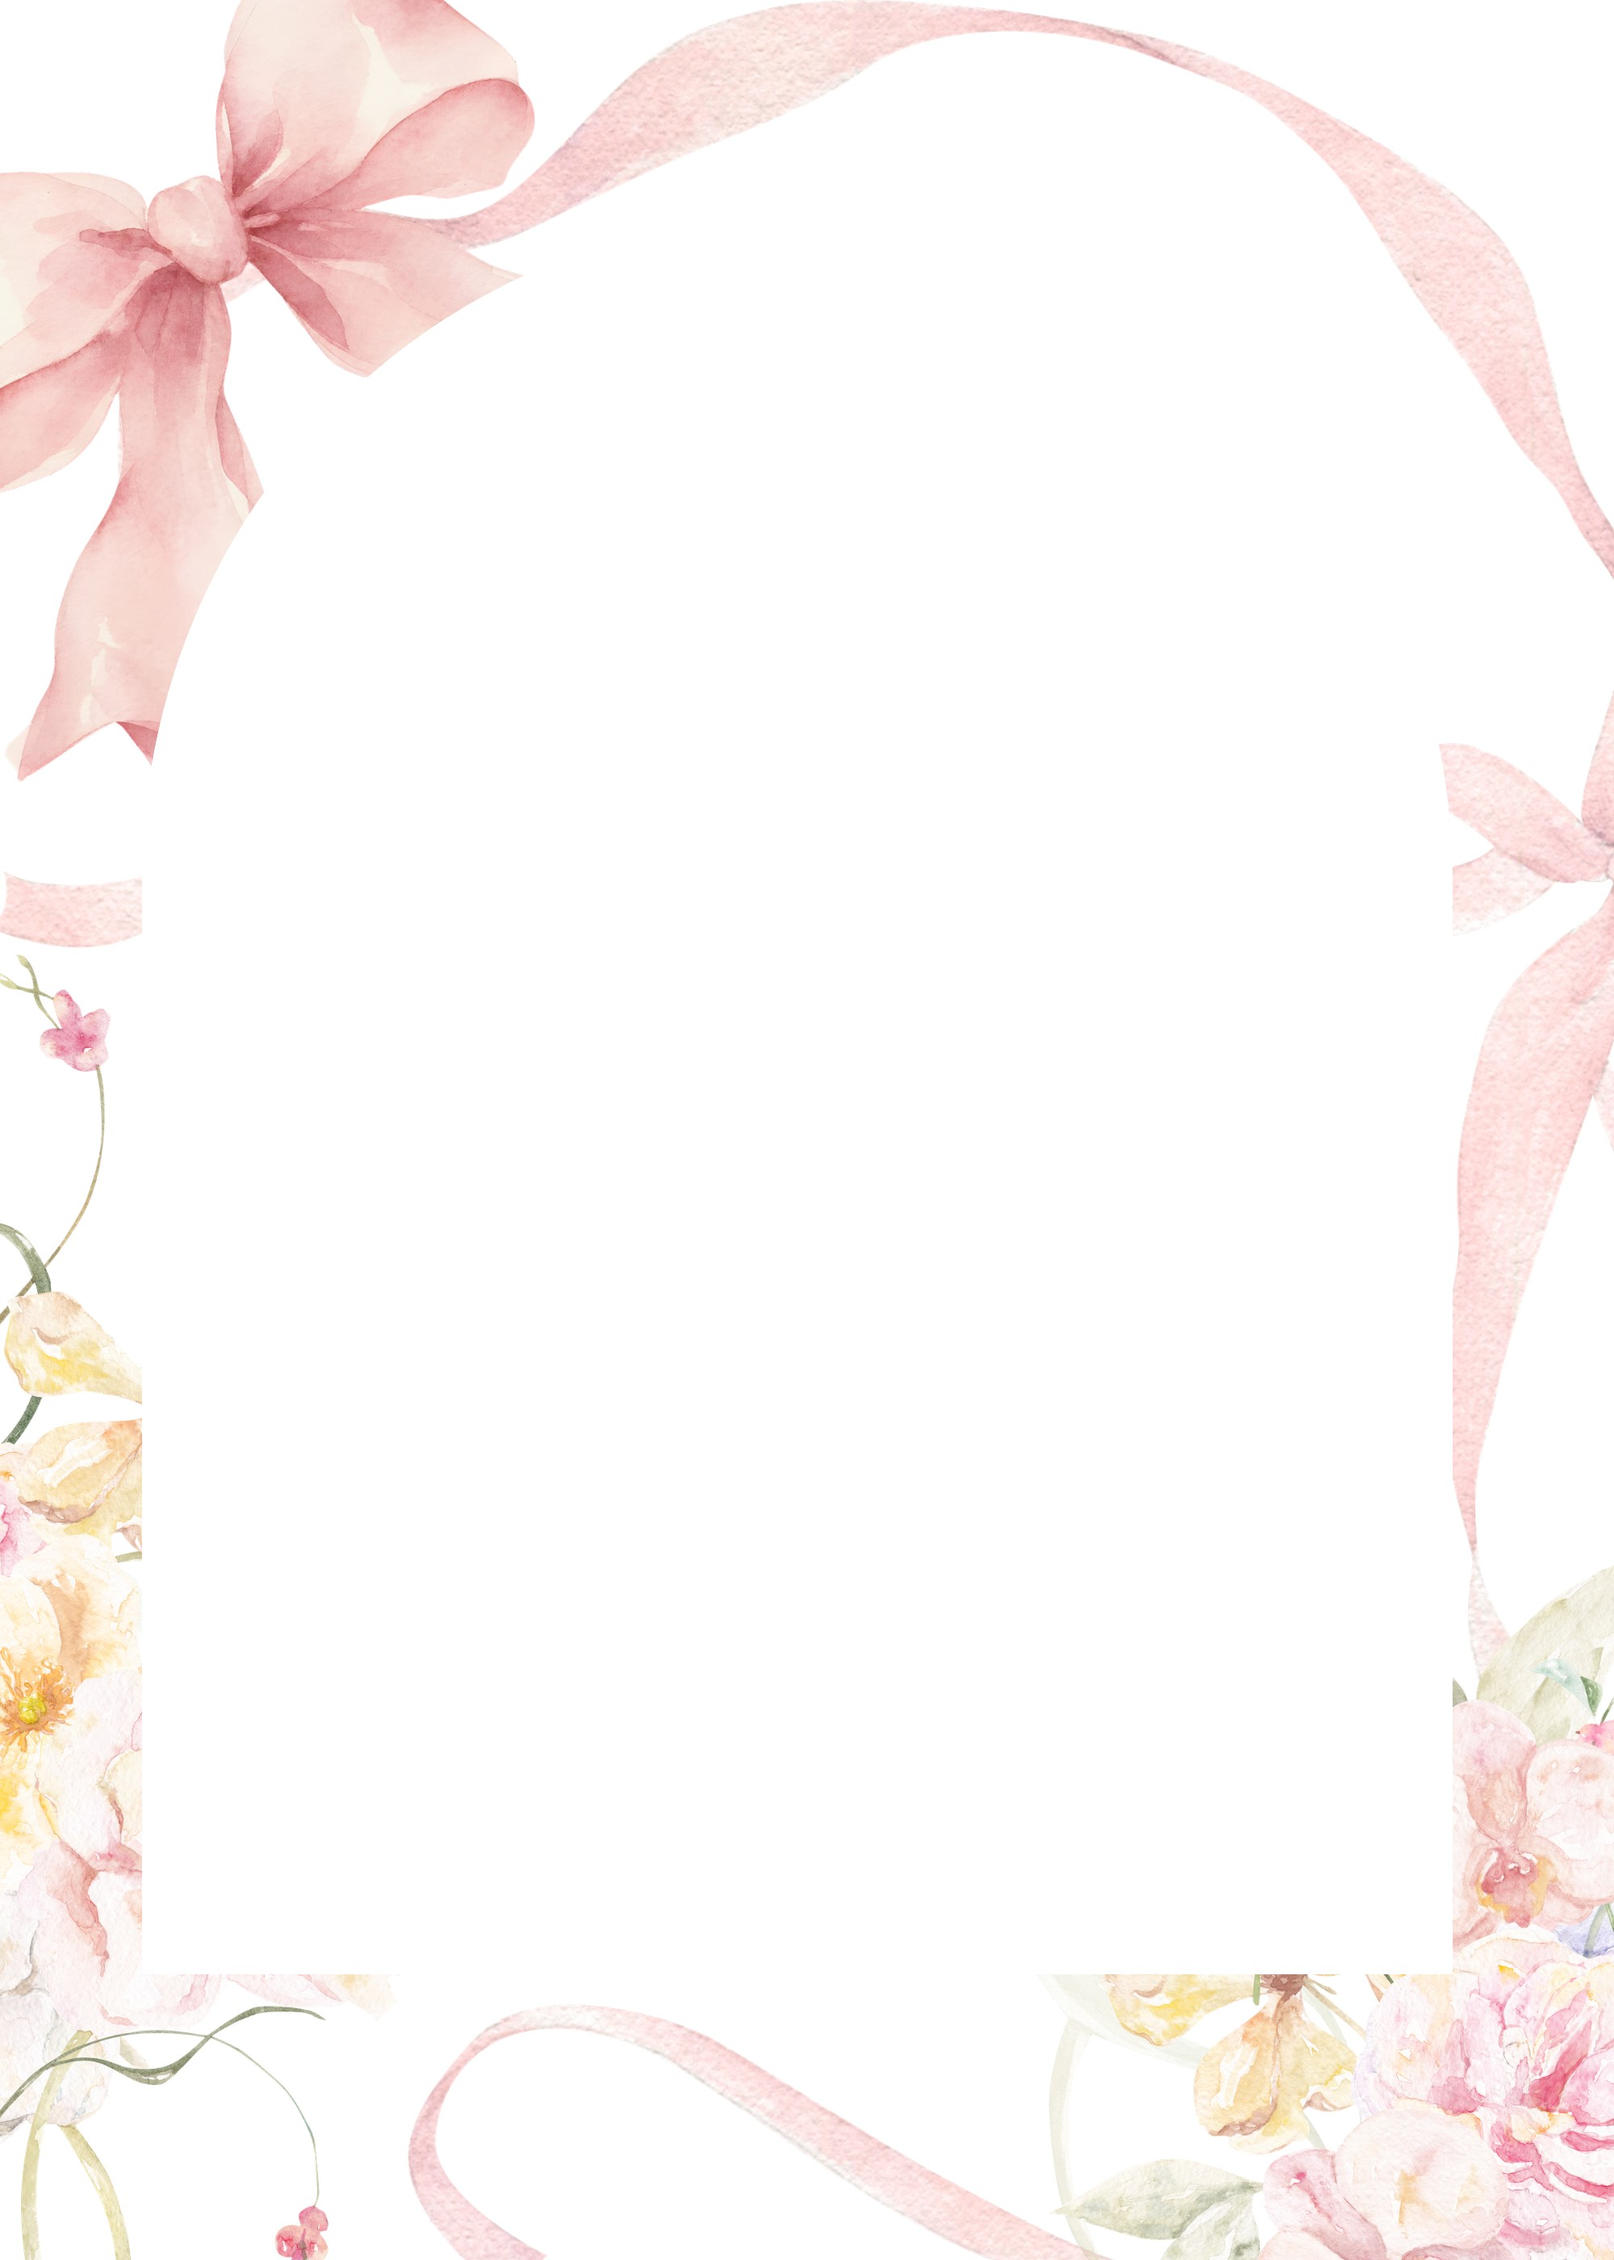
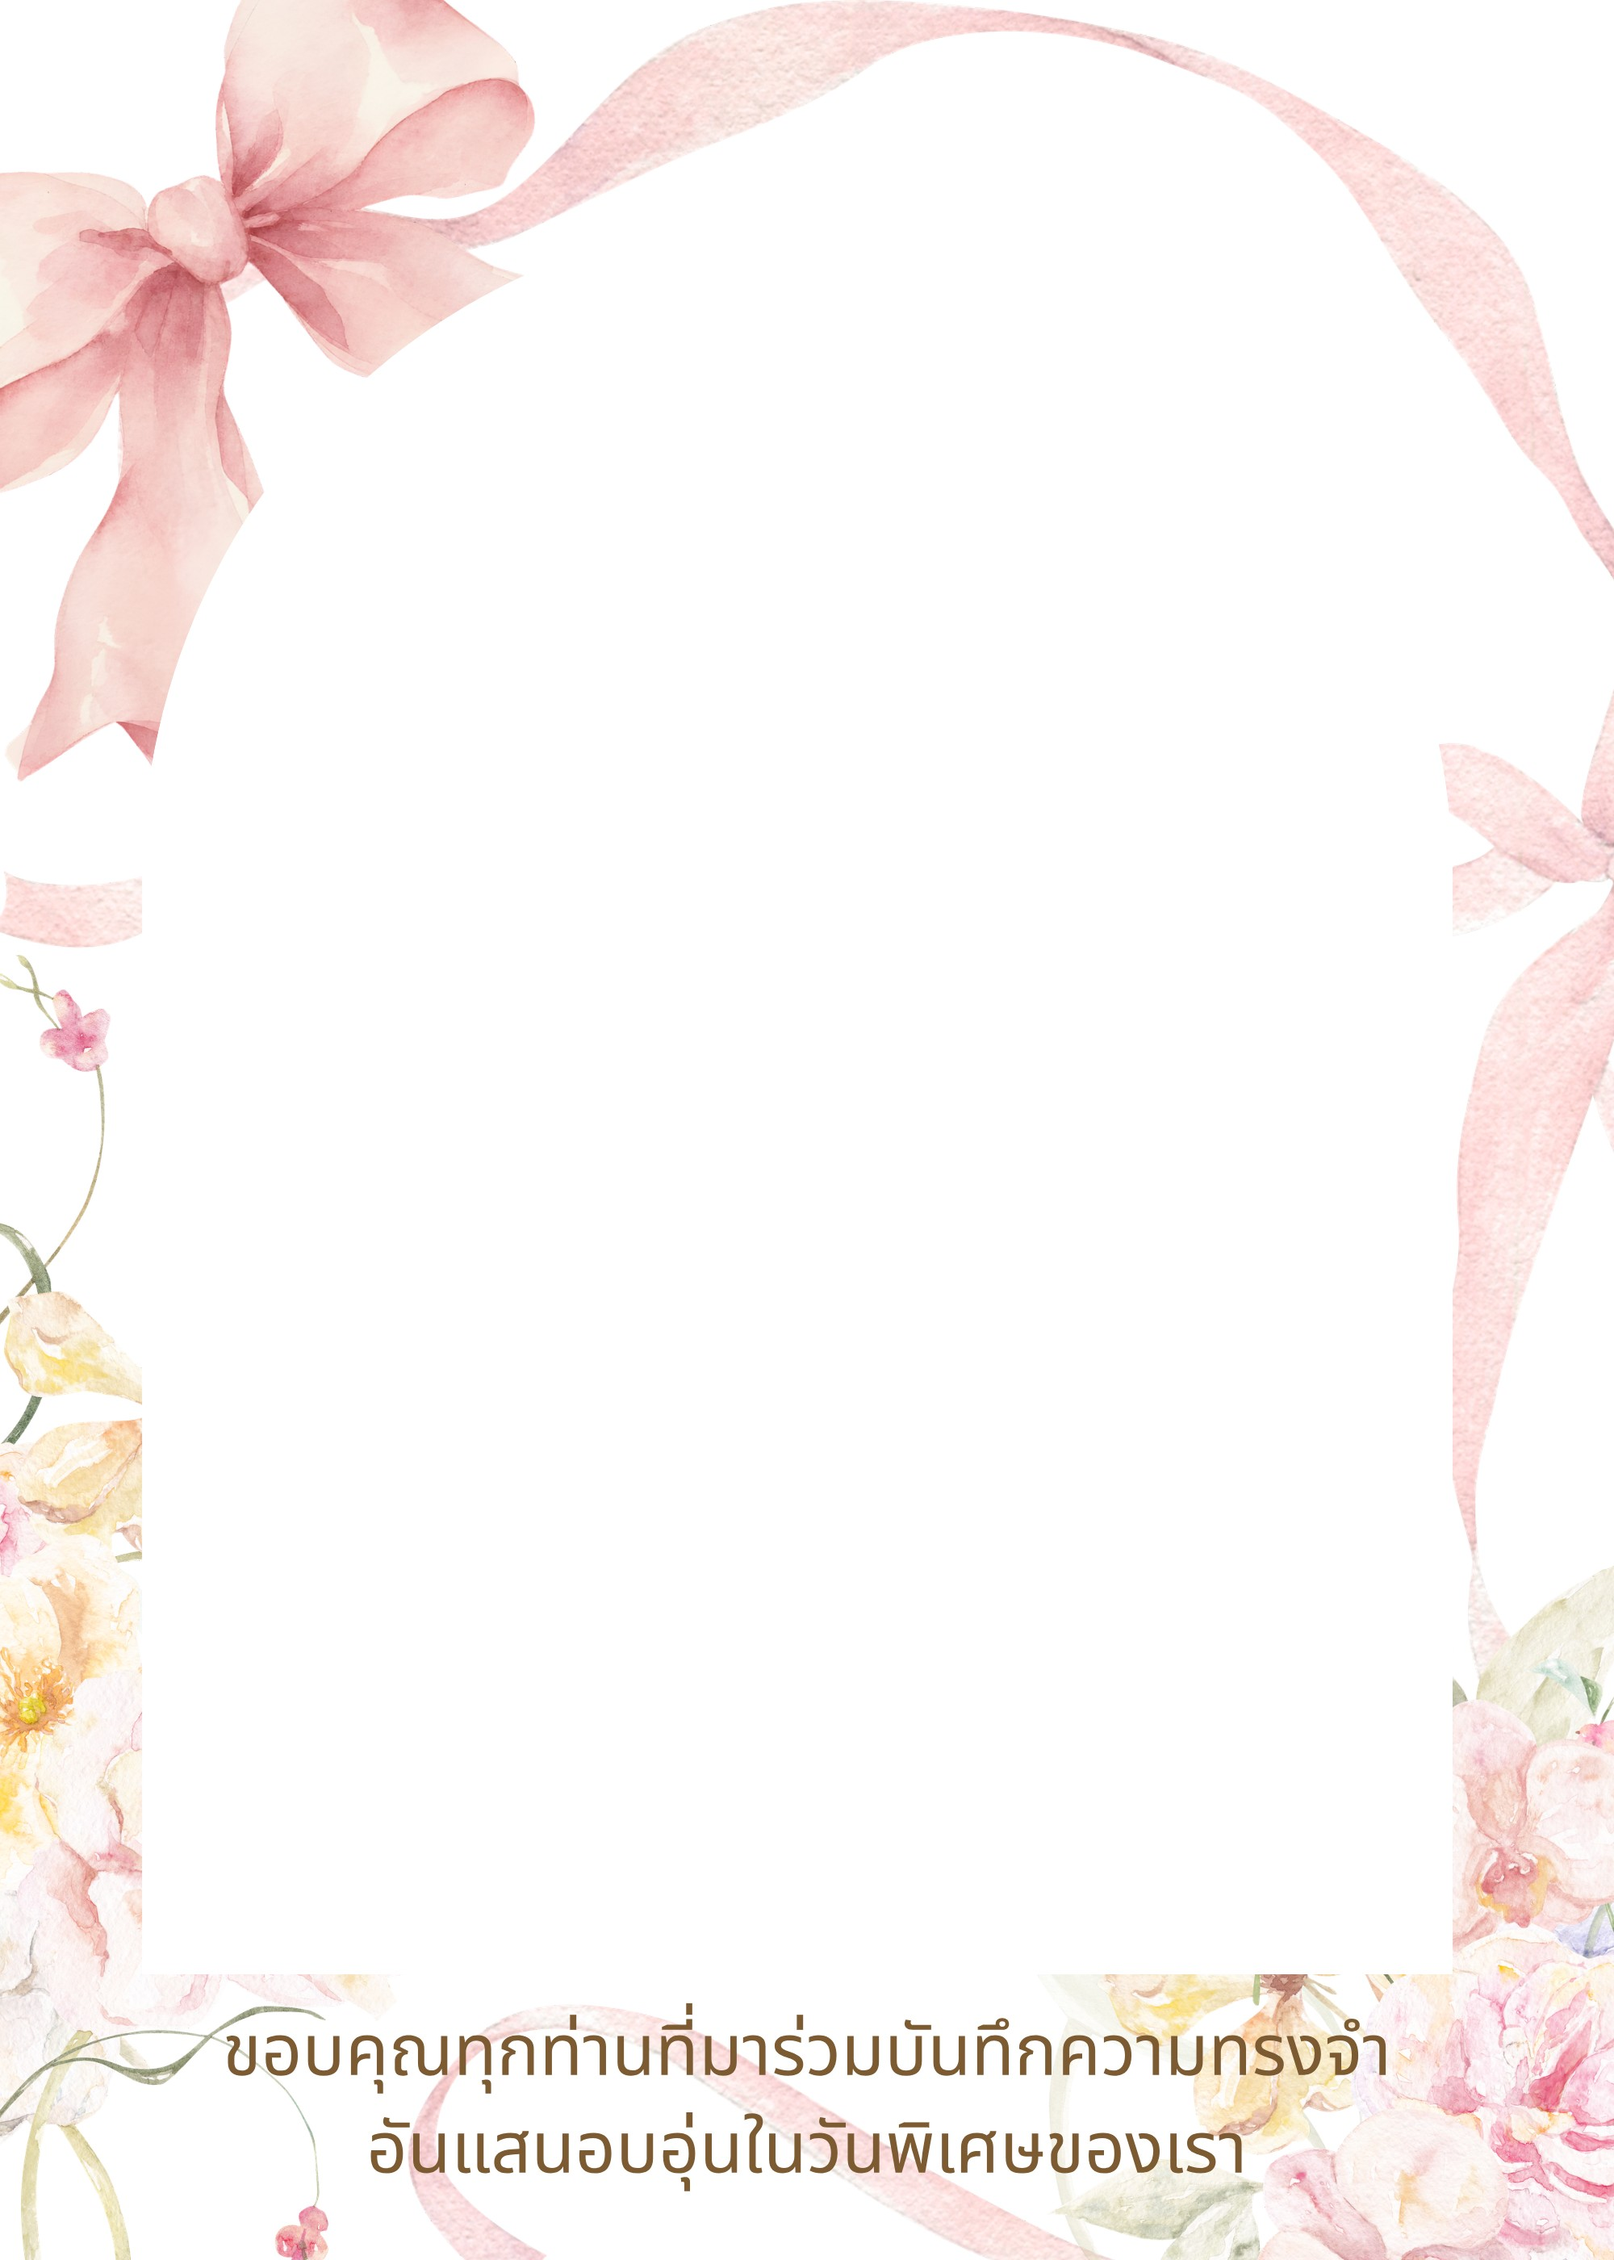
Signs: updated template with thank-you lines, bigger VIP, borderless shrink option

Changed region(s): [[0.124, 0.9011, 0.868, 0.9632]]

diff --git a/app/print/signs/page.tsx b/app/print/signs/page.tsx
@@ -1,6 +1,7 @@
 "use client";
 
 import { Mali } from "next/font/google";
+import { useEffect, useState } from "react";
 import { signFontPt, signLines } from "@/lib/layout";
 import { useStore } from "@/lib/store";
 
@@ -8,6 +9,7 @@ const mali = Mali({ subsets: ["thai", "latin"], weight: "700" });
 
 /** The 5×7 in design scaled to a quarter of A4 (148.5 mm tall); it is 1 mm wider than the cell, so the sides crop evenly. */
 const FACE_SCALE = 148.5 / 177.8;
+const SHRINK_KEY = "signPrintShrink";
 
 /** One face of a tent card on public/sign-template.jpg (template/template.svg without its text). */
 function Face({ num, label, flip }: { num: number | undefined; label: string; flip?: boolean }) {
@@ -33,6 +35,24 @@ function Face({ num, label, flip }: { num: number | undefined; label: string; fl
 /** Two tables per A4 sheet: each column is one tent card, cut along the vertical line and folded along the horizontal one. */
 export default function PrintSigns() {
   const { state, d, error } = useStore();
+  // borderless printing enlarges the page past the paper; shrinking around the centre keeps the art and the cut/fold lines in place
+  const [shrink, setShrink] = useState(0);
+  useEffect(() => {
+    try {
+      setShrink(Number(localStorage.getItem(SHRINK_KEY)) || 0);
+    } catch {
+      /* ignore */
+    }
+  }, []);
+  const chooseShrink = (n: number) => {
+    setShrink(n);
+    try {
+      localStorage.setItem(SHRINK_KEY, String(n));
+    } catch {
+      /* ignore */
+    }
+  };
+
   if (error) return <p className="p-6 text-danger">{error}</p>;
   if (!state || !d) return <p className="p-6 text-muted">กำลังโหลด…</p>;
 
@@ -47,14 +67,26 @@ export default function PrintSigns() {
           พิมพ์ {sheets.length} แผ่น
         </button>
         <span className="text-sm text-muted">{tables.length} โต๊ะ · A4 แนวตั้ง · ไม่มีขอบ · ตัดตามเส้นแนวตั้ง พับตามเส้นแนวนอน</span>
+        <label className="ml-auto flex shrink-0 items-center gap-2 text-sm">
+          ย่อชดเชยขอบ
+          <select className="min-h-9 rounded-lg border border-line bg-card px-2" value={shrink} onChange={(e) => chooseShrink(Number(e.target.value))}>
+            {[0, 1, 2, 3, 4, 5].map((n) => (
+              <option key={n} value={n}>
+                {n}%
+              </option>
+            ))}
+          </select>
+        </label>
       </div>
       <div className="flex flex-col items-center gap-6 bg-paper py-6 print:block print:gap-0 print:bg-white print:py-0">
         {sheets.map((pair) => (
-          <div key={pair[0].id} className={`sheet relative grid h-[297mm] w-[210mm] grid-cols-2 overflow-hidden bg-white shadow print:shadow-none ${mali.className}`} style={{ color: "#7c5a32" }}>
+          <div key={pair[0].id} className={`sheet relative h-[297mm] w-[210mm] overflow-hidden bg-white shadow print:shadow-none ${mali.className}`} style={{ color: "#7c5a32" }}>
+            <div className="grid size-full grid-cols-2" style={{ transform: `scale(${1 - shrink / 100})` }}>
             {[true, false].flatMap((flip) =>
               // an odd table count leaves the last sheet's right column empty, so the left one still folds
               [pair[0], pair[1]].map((t, col) => (t ? <Face key={`${col}-${flip}`} num={d.numbers.get(t.id)} label={d.signById.get(t.sign_id!)!.label} flip={flip} /> : <div key={`${col}-${flip}`} />)),
             )}
+            </div>
             <span className="absolute inset-y-0 left-1/2 border-l border-dashed border-black/30" />
             <span className="absolute inset-x-0 top-1/2 border-t border-dashed border-black/30" />
           </div>

diff --git a/lib/layout.ts b/lib/layout.ts
@@ -22,7 +22,8 @@ export function signLines(label: string): string[] {
 /** Largest font size (pt) that keeps the longest line inside the template's white panel. Thai marks take no width. */
 export function signFontPt(lines: string[]): number {
   const chars = Math.max(1, ...lines.map((l) => l.replace(/[ัิ-ฺ็-๎]/g, "").length));
-  return Math.min(56, Math.floor(270 / (chars * 0.67)));
+  // a label on one line has the room of two, e.g. "VIP"
+  return Math.min(lines.length === 1 ? 84 : 56, Math.floor(270 / (chars * 0.67)));
 }
 
 export function groupKey(p: Pick<Party, "host" | "village">): string {

diff --git a/tests/rules.test.ts b/tests/rules.test.ts
@@ -17,6 +17,7 @@ describe("printed signs", () => {
   it("keeps template size for short labels and shrinks long ones", () => {
     expect(signFontPt(["ครอบครัว", "เจ้าสาว"])).toBe(56);
     expect(signFontPt(["เพื่อนร่วมงานบริษัทกสิกรไทย"])).toBeLessThan(56);
+    expect(signFontPt(["VIP"])).toBe(84);
   });
 });
 
